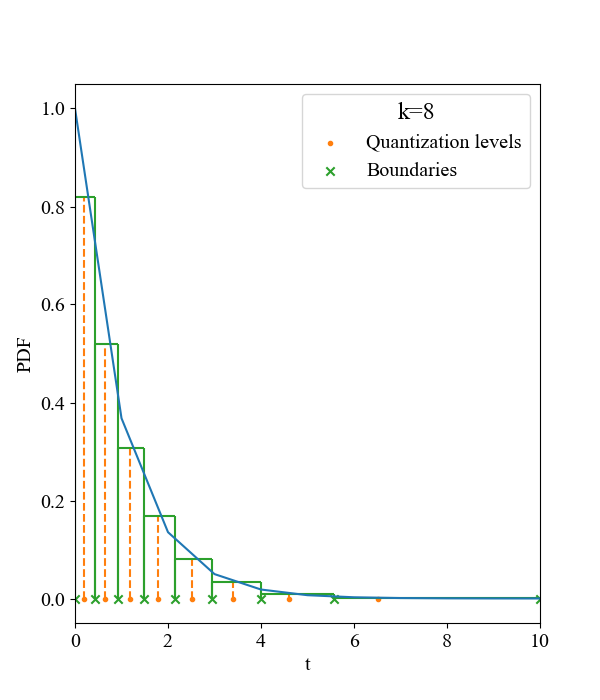
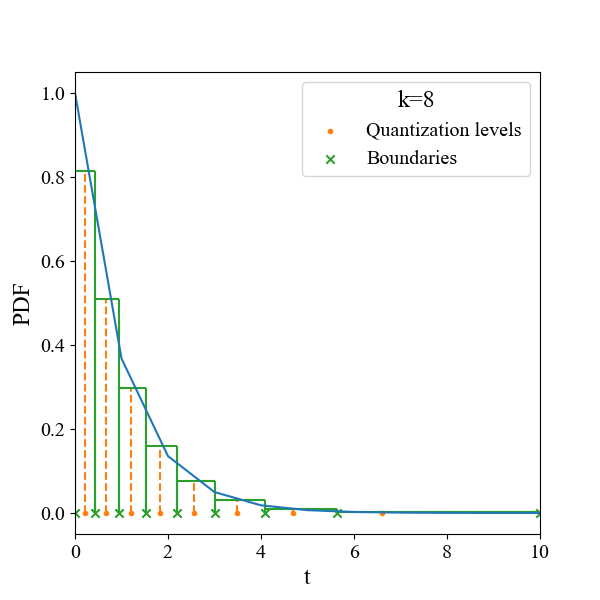
updated

diff --git a/main.py b/main.py
@@ -23,9 +23,9 @@ if __name__ == '__main__':
     bar_y = [pdf(l, i) for i in levels]
 
     params = {'legend.title_fontsize': 'xx-large',
-              'figure.figsize': (6, 7),
+              'figure.figsize': (6, 6),
               'legend.fontsize': 'x-large',
-              'axes.labelsize': 'x-large',
+              'axes.labelsize': 'xx-large',
               # 'axes.titlesize': 'xx-large',
               'xtick.labelsize': 'x-large',
               'ytick.labelsize': 'x-large',
